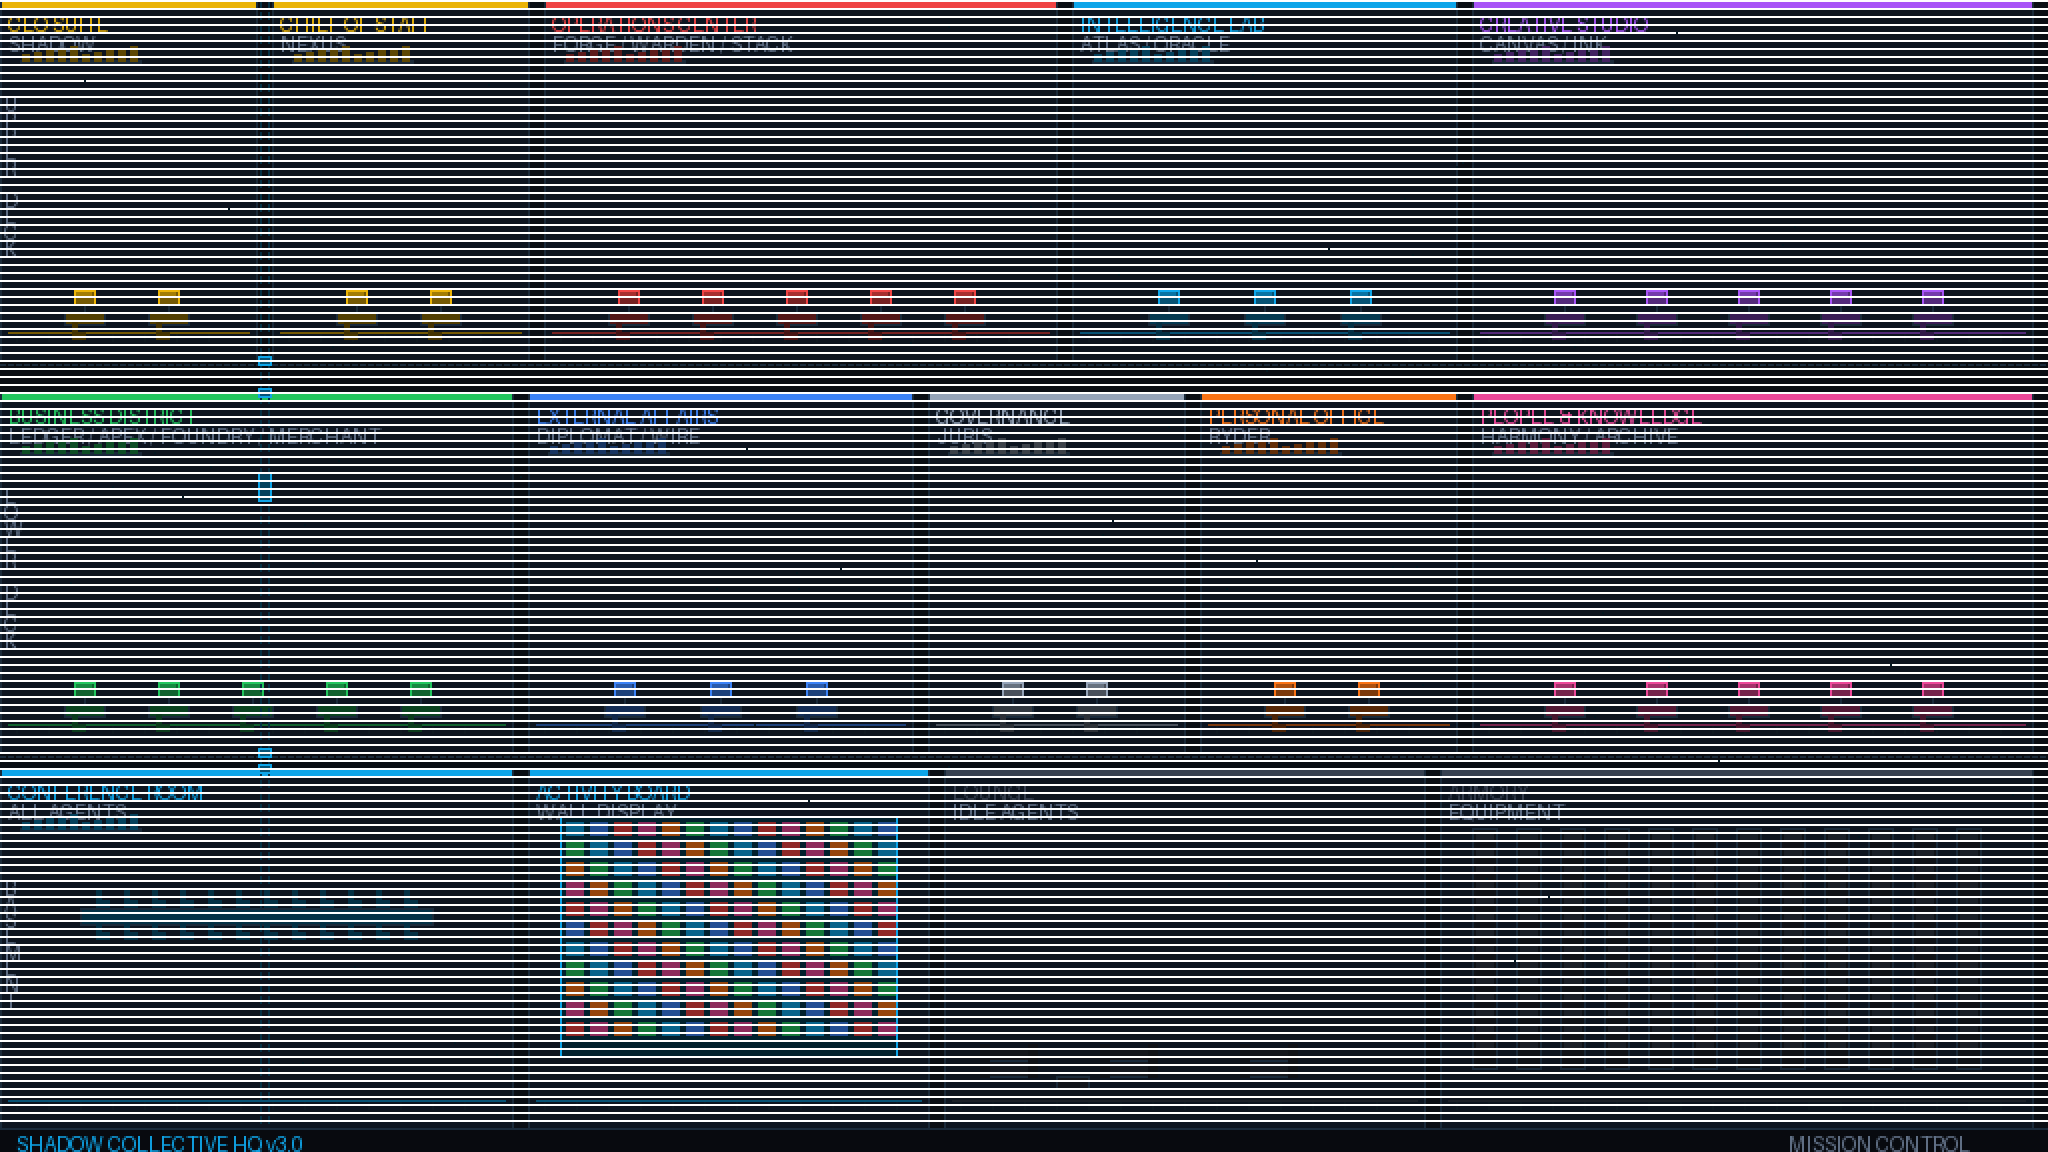
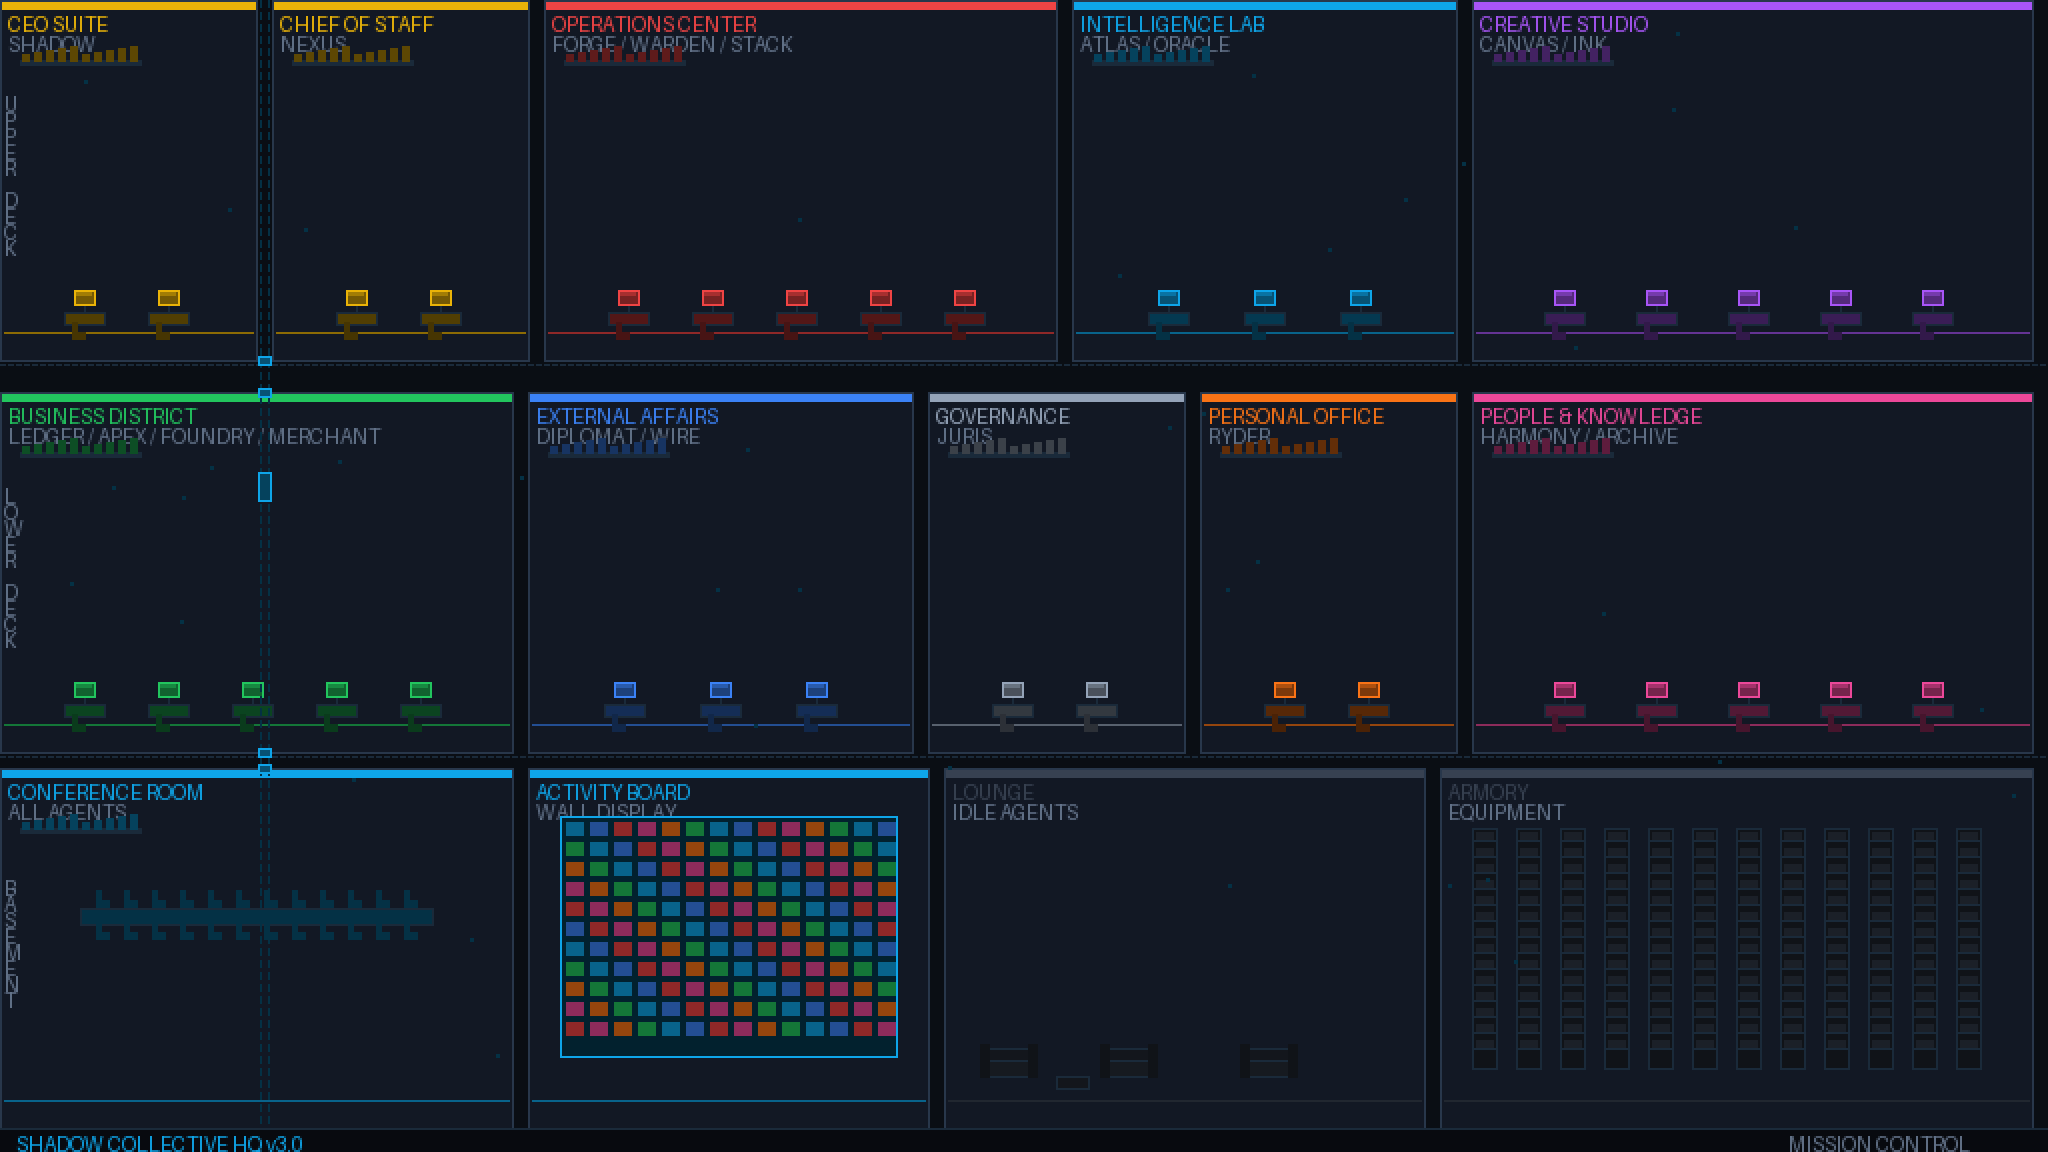
fix: remove scan lines, improve room contrast and readability

Changed region(s): [[0.0, 0.0, 1.0, 0.9688]]

diff --git a/scripts/generate-rooms.py b/scripts/generate-rooms.py
@@ -205,23 +205,19 @@ def draw_room(draw, room):
     x, y, w, h = room["x"], room["y"], room["w"], room["h"]
     accent = room["accent"]
 
-    # Room background fill
-    draw.rectangle([x + 1, y + 1, x + w - 1, y + h - 1], fill=WALL)
+    # Room background fill — solid dark fill for clarity
+    draw.rectangle([x + 1, y + 1, x + w - 1, y + h - 1], fill=(18, 24, 36))
 
-    # Border
-    draw.rectangle([x, y, x + w, y + h], outline=BORDER)
+    # Border — brighter for room definition
+    draw.rectangle([x, y, x + w, y + h], outline=(40, 55, 75))
 
-    # Accent line at top (3px thick)
-    for t in range(3):
+    # Accent line at top (4px thick, brighter)
+    for t in range(4):
         draw.line([x + 1, y + 1 + t, x + w - 1, y + 1 + t], fill=accent)
 
-    # Floor line
+    # Floor — solid line, no texture tiles
     floor_y = y + h - 14
-    draw.line([x + 4, floor_y, x + w - 4, floor_y], fill=dim(accent, 0.5))
-
-    # Floor tiles / texture
-    for tx in range(x + 8, x + w - 8, 16):
-        draw.line([tx, floor_y + 1, tx, floor_y + 4], fill=dim(BORDER, 0.6))
+    draw.line([x + 2, floor_y, x + w - 2, floor_y], fill=dim(accent, 0.6))
 
     # Room name label (top-left, below accent line)
     draw.text((x + 4, y + 6), room["name"].upper(), fill=accent)
@@ -300,18 +296,16 @@ def draw_title_bar(draw):
 # ---------------------------------------------------------------------------
 
 def draw_ambience(draw):
-    """Subtle scan-line overlay and glow dots on walls."""
+    """Subtle glow dots on walls. No scan lines (they cause visual noise)."""
     import random
     random.seed(42)  # deterministic
-    # Faint horizontal scan lines every 4px
-    for sy in range(0, H - 12, 4):
-        draw.line([0, sy, W, sy], fill=(255, 255, 255, 3))  # nearly invisible in RGBA
 
     # Tiny glow dots scattered in rooms
-    for _ in range(80):
+    for _ in range(40):
         gx = random.randint(10, W - 10)
         gy = random.randint(10, H - 20)
-        draw.point((gx, gy), fill=dim(CYAN, 0.15))
+        c = dim(CYAN, 0.3)
+        draw.rectangle([gx, gy, gx+1, gy+1], fill=c)
 
 
 # ---------------------------------------------------------------------------
